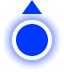
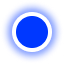
Fix: heading 제거

Changed region(s): [[0.125, 0.0, 0.875, 0.8438]]

diff --git a/src/hooks/useGeolocation.ts b/src/hooks/useGeolocation.ts
@@ -1,71 +1,51 @@
 import { useState, useEffect } from 'react';
 
-interface LocationType {
+interface locationType {
   loaded: boolean;
   coordinates?: { lat: number; lng: number };
-  heading?: number | null;
   error?: { code: number; message: string };
 }
 
-const useGeolocationWithHeading = () => {
-  const [location, setLocation] = useState<LocationType>({
+const useGeolocation = () => {
+  const [location, setLocation] = useState<locationType>({
     loaded: false,
     coordinates: { lat: 0, lng: 0 },
-    heading: null,
   });
 
-  const onSuccess = (position: GeolocationPosition) => {
-    setLocation((currentLocation) => ({
-      ...currentLocation,
+  // 성공에 대한 로직
+  const onSuccess = (location: {
+    coords: { latitude: number; longitude: number };
+  }) => {
+    setLocation({
       loaded: true,
       coordinates: {
-        lat: position.coords.latitude,
-        lng: position.coords.longitude,
+        lat: location.coords.latitude,
+        lng: location.coords.longitude,
       },
-      heading: position.coords.heading,
-    }));
+    });
   };
 
-  const onError = (error: GeolocationPositionError) => {
-    setLocation((currentLocation) => ({
-      ...currentLocation,
+  // 에러에 대한 로직
+  const onError = (error: { code: number; message: string }) => {
+    setLocation({
       loaded: true,
-      error: {
-        code: error.code,
-        message: error.message,
-      },
-    }));
+      error,
+    });
   };
 
   useEffect(() => {
+    // navigator 객체 안에 geolocation이 없다면
+    // 위치 정보가 없는 것.
     if (!('geolocation' in navigator)) {
-      onError(new GeolocationPositionError());
-      return;
+      onError({
+        code: 0,
+        message: 'Geolocation not supported',
+      });
     }
-
-    const watcherId = navigator.geolocation.watchPosition(onSuccess, onError, {
-      enableHighAccuracy: true,
-    });
-
-    const handleOrientationEvent = (event: DeviceOrientationEvent) => {
-      // Ensure alpha is not null before updating state
-      if (event.alpha !== null) {
-        setLocation((currentLocation) => ({
-          ...currentLocation,
-          heading: event.alpha, // Use event.alpha for the heading
-        }));
-      }
-    };
-
-    window.addEventListener('deviceorientation', handleOrientationEvent);
-
-    return () => {
-      navigator.geolocation.clearWatch(watcherId);
-      window.removeEventListener('deviceorientation', handleOrientationEvent);
-    };
+    navigator.geolocation.getCurrentPosition(onSuccess, onError);
   }, []);
 
   return location;
 };
 
-export default useGeolocationWithHeading;
+export default useGeolocation;

diff --git a/src/components/NaverMap/MyMap/index.tsx b/src/components/NaverMap/MyMap/index.tsx
@@ -4,11 +4,8 @@ import useGeolocation from '@/hooks/useGeolocation';
 import MyMarkerImg from '@/assets/Markers/MyMarker.png'
 export function MyMap() {
     const navermaps = useNavermaps();
-    const { loaded, coordinates, heading } = useGeolocation();
-    const markerWidth = 40;
-    const markerHeight = 45;
-
-    console.log(heading)
+    const { loaded, coordinates } = useGeolocation();
+    const markerSize = 40; 
     return (
         <>
             {loaded && coordinates && (
@@ -20,8 +17,8 @@ export function MyMap() {
                     position={new navermaps.LatLng(coordinates.lat, coordinates.lng)}
                     icon={{
                         content: `
-                            <div style="transform: rotate(${heading}deg) width: ${markerWidth}px; height: ${markerHeight}px;">
-                                <img src="${MyMarkerImg}" style="width: ${markerWidth}px; height: ${markerHeight}px;" />
+                            <div style="width: ${markerSize}px; height: ${markerSize}px;">
+                                <img src="${MyMarkerImg}" style="width: ${markerSize}px; height: ${markerSize}px;" />
                             </div>
                         `,
                         anchor: new navermaps.Point(25, 25)
